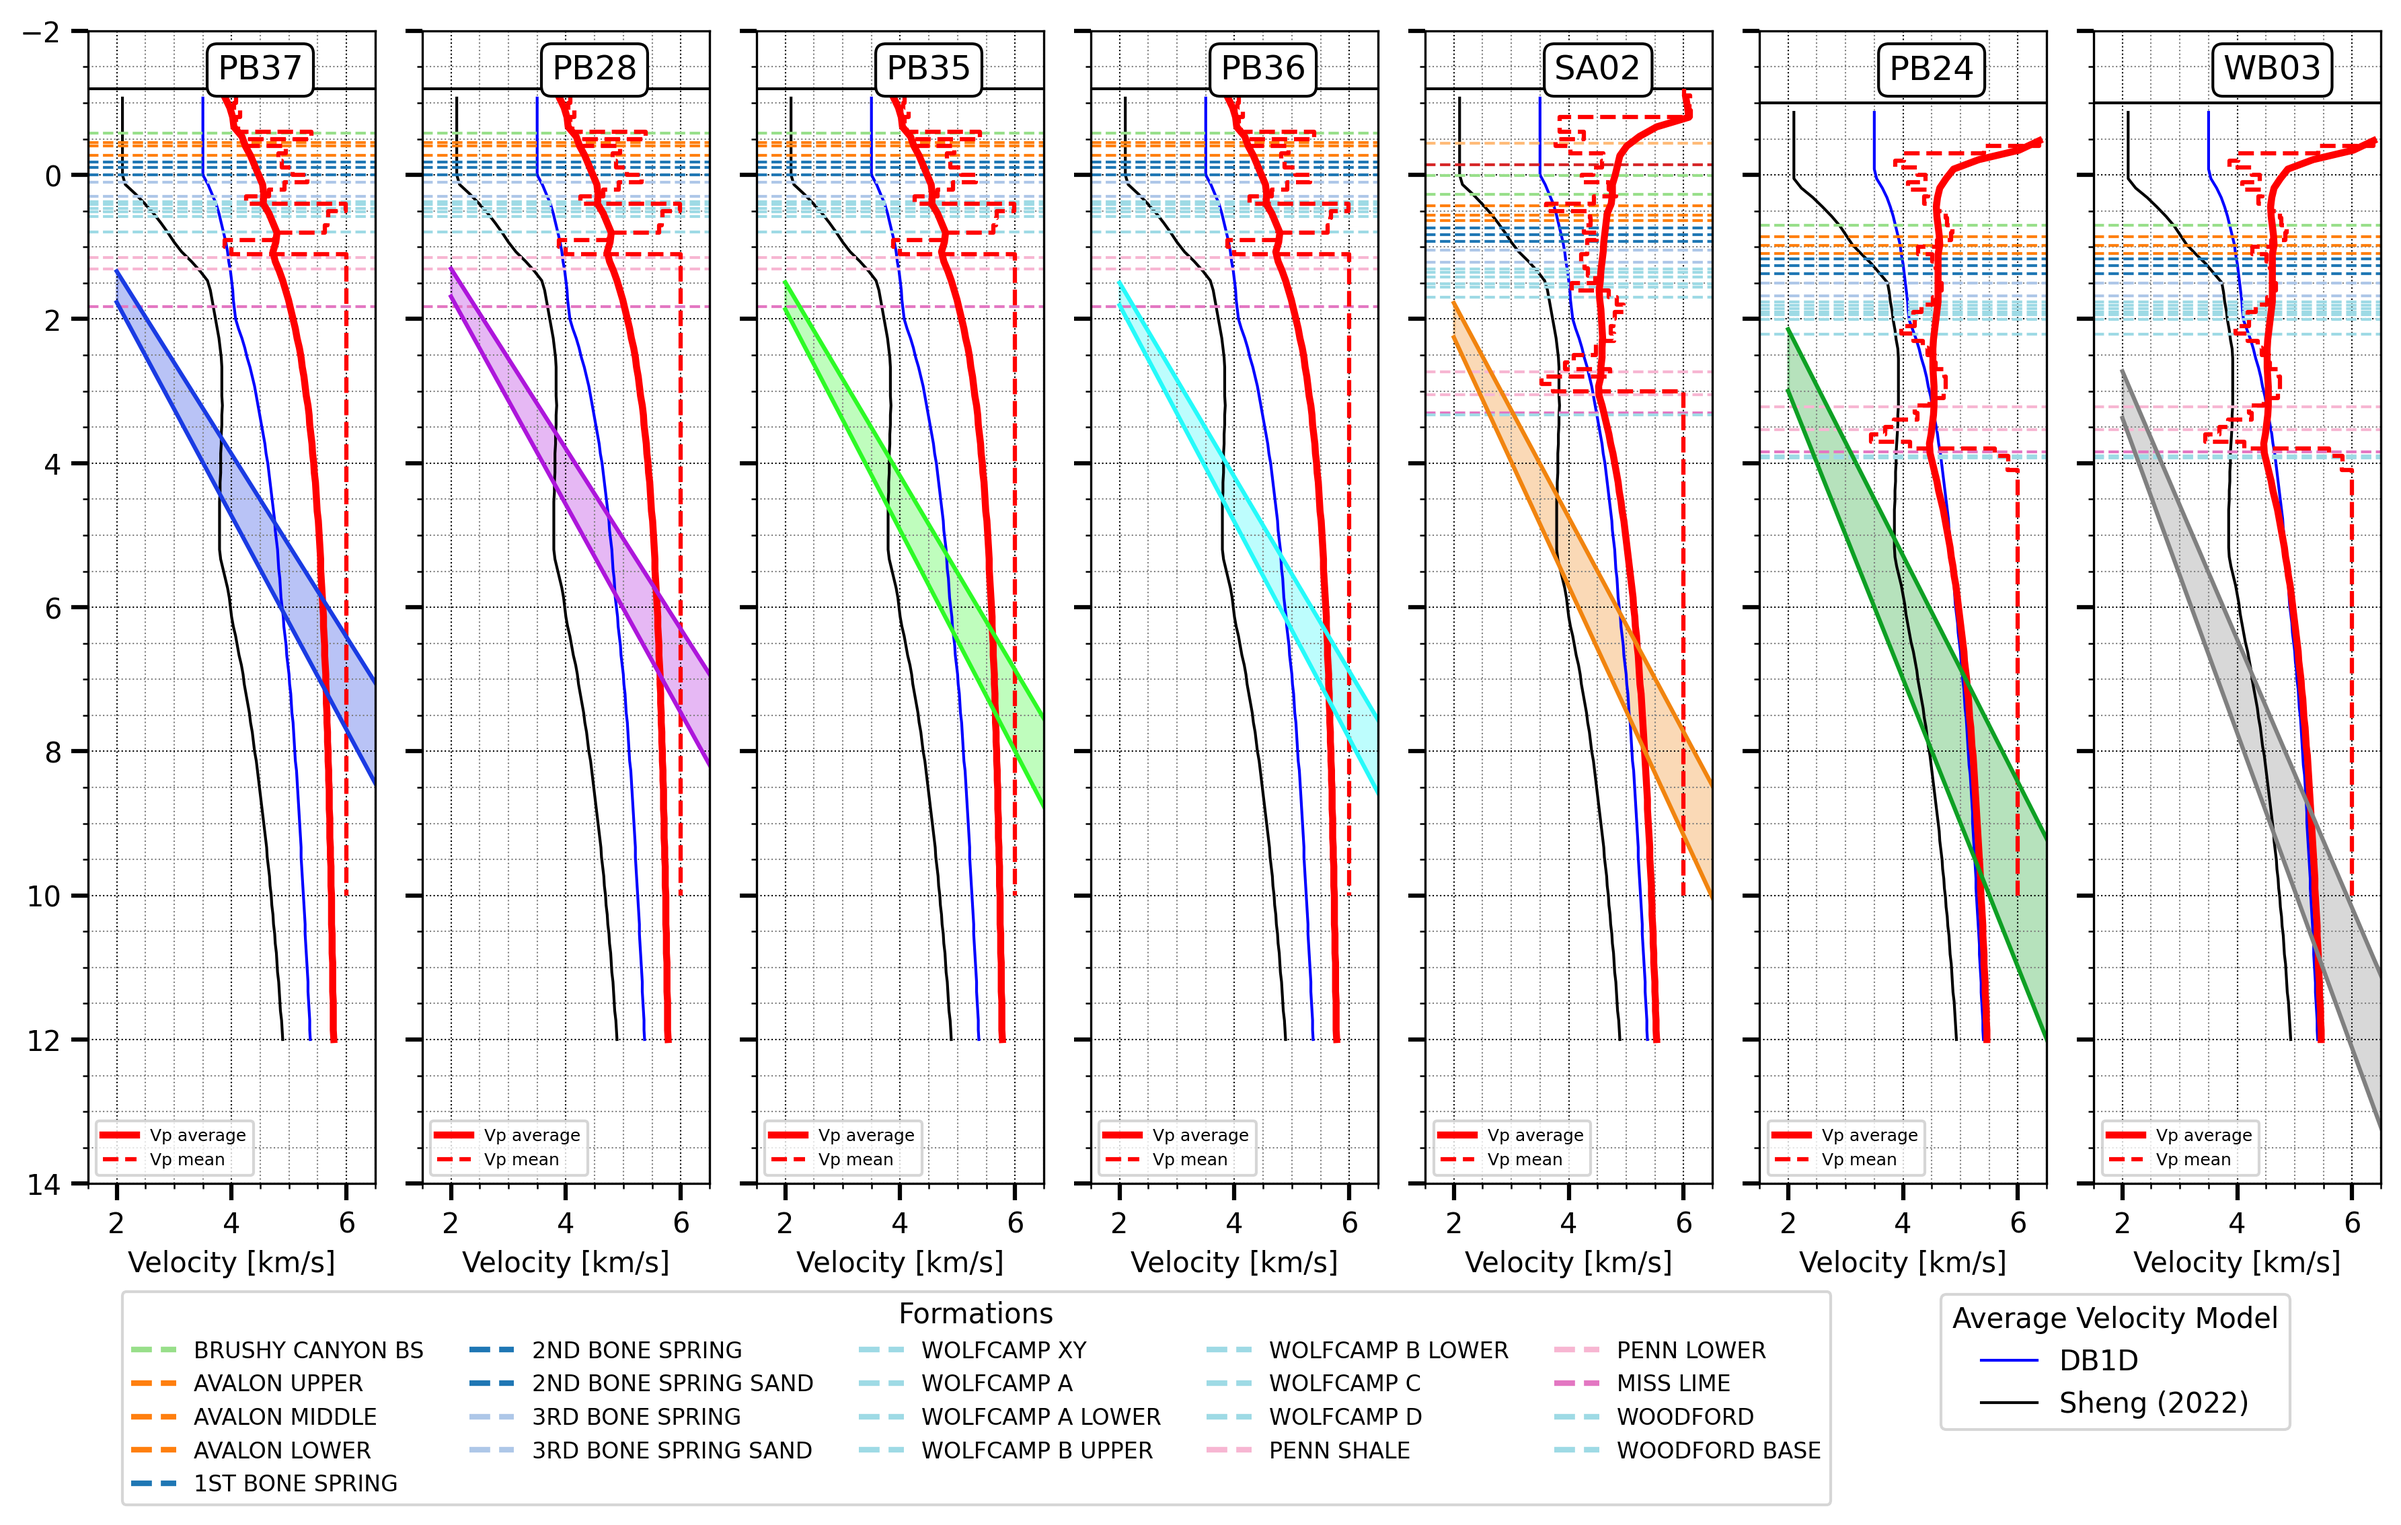
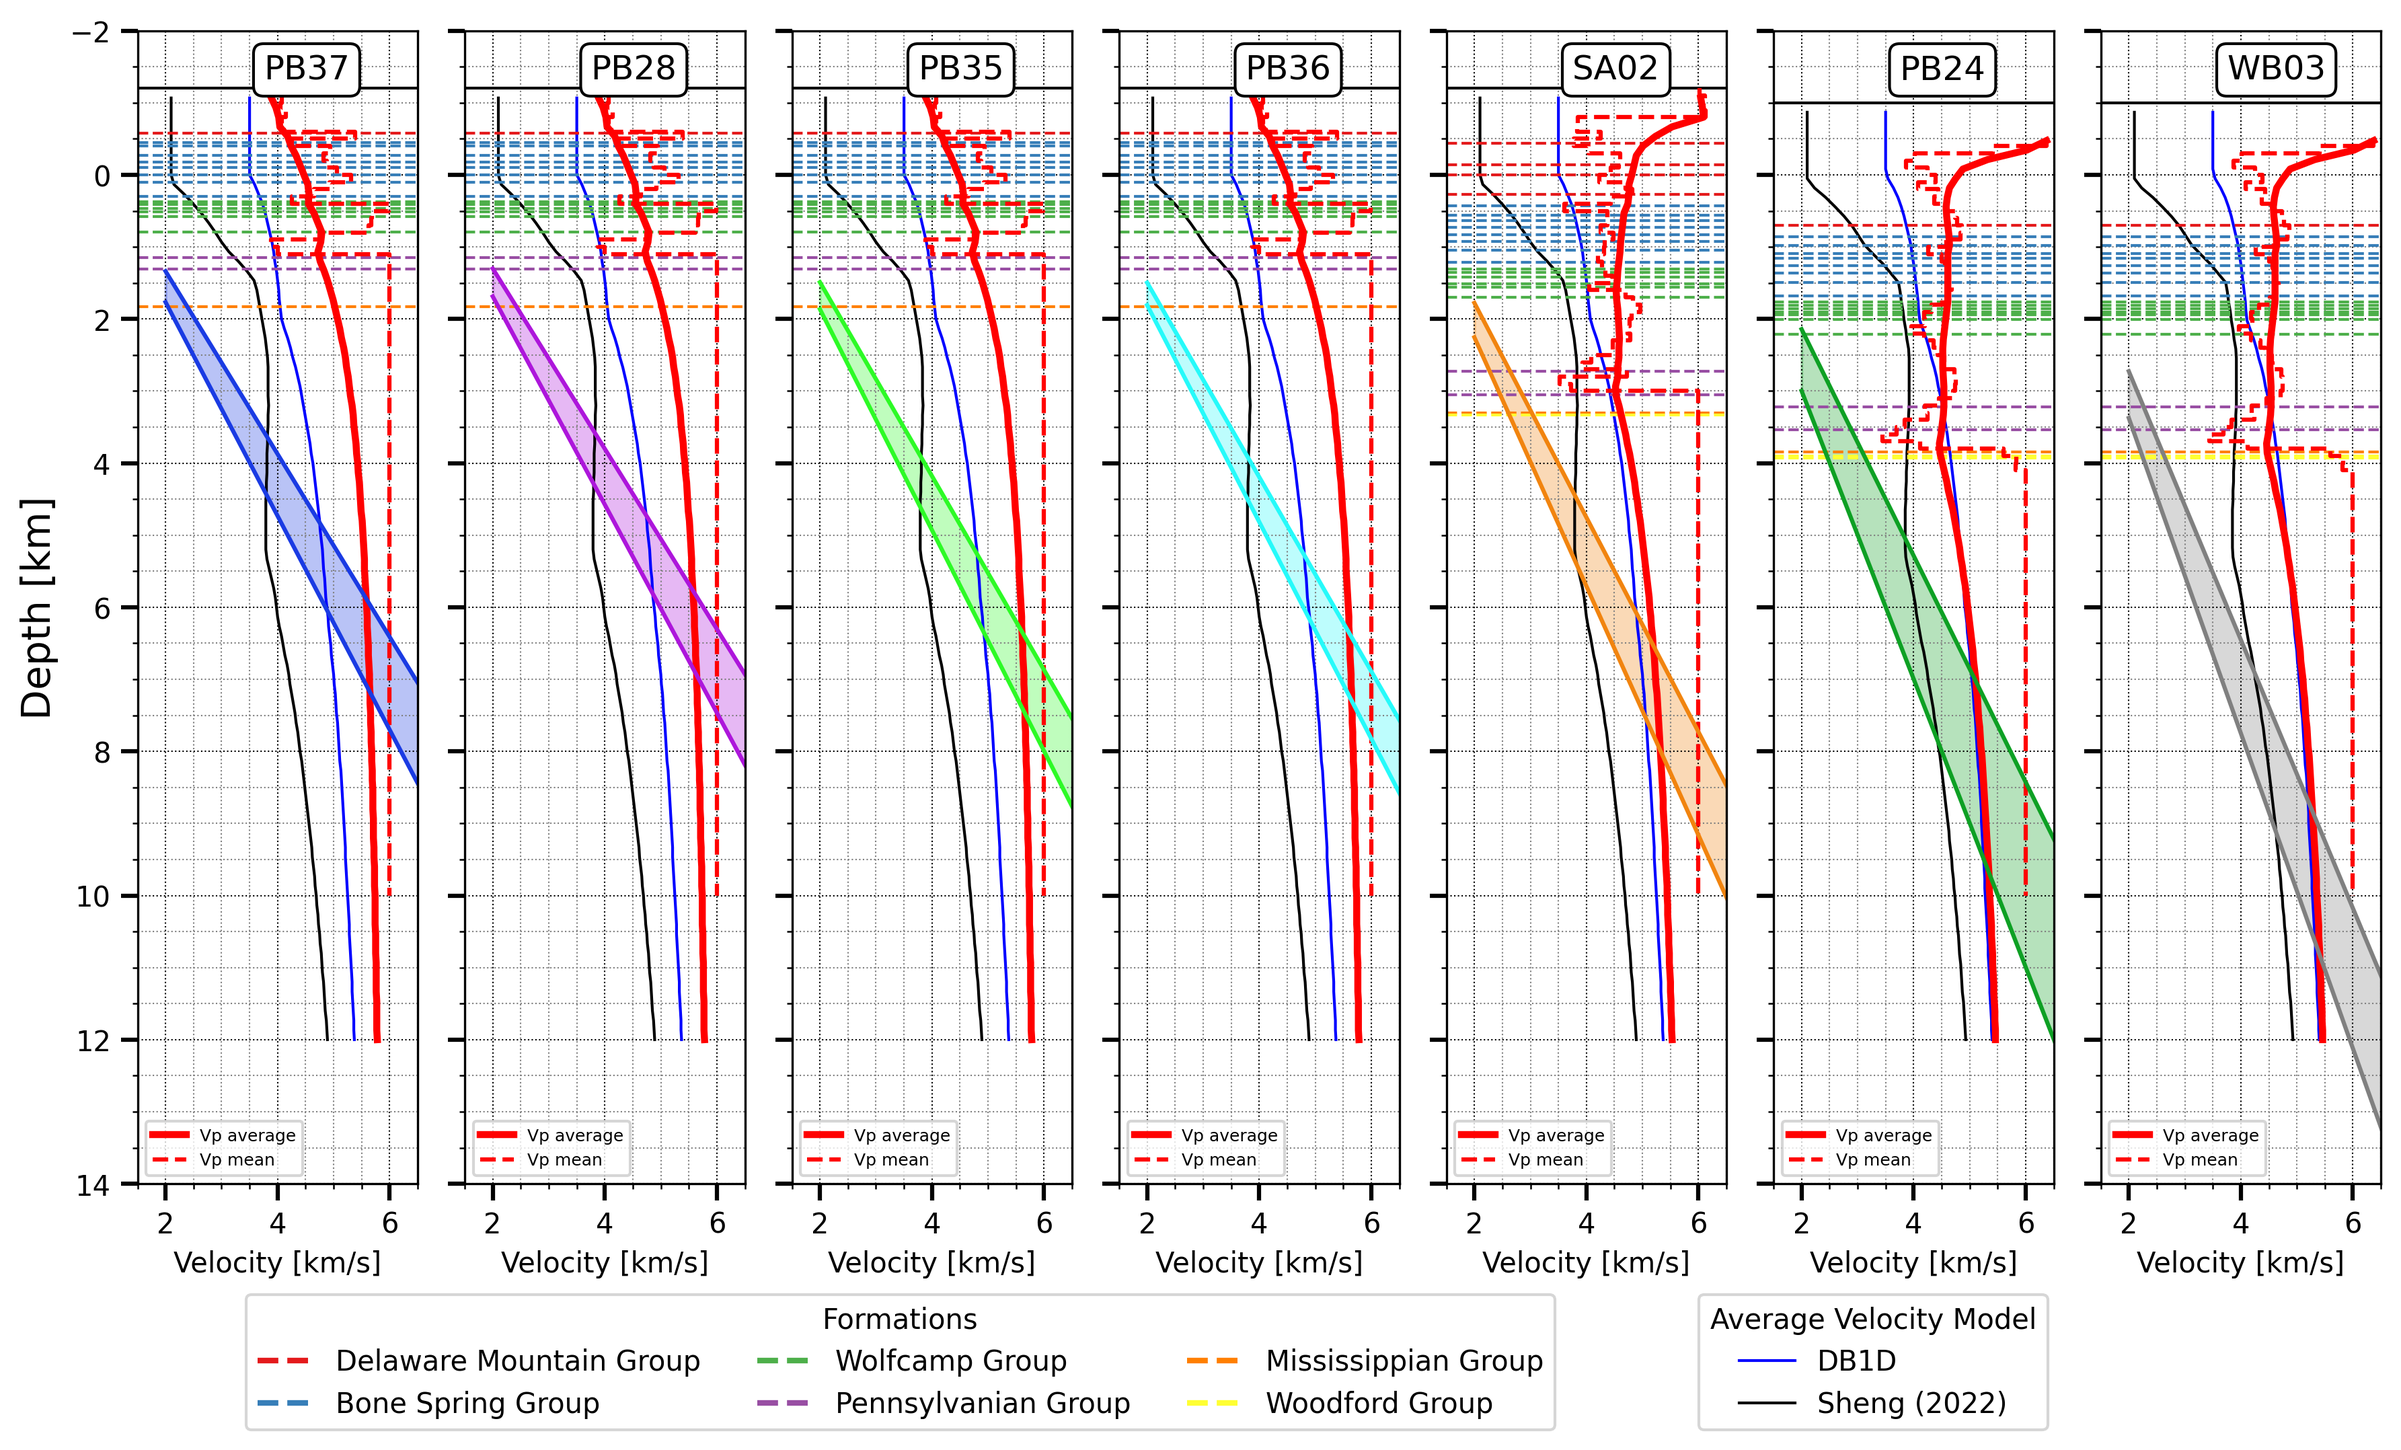
depth lines

Changed region(s): [[0.0, 0.0, 0.995, 0.9944]]

diff --git a/10102024/delaware/core/enverus.py b/10102024/delaware/core/enverus.py
@@ -1045,6 +1045,7 @@ def z_fig(df,formations,
              formation_well_name,
              sp_25, sp_75,vp_vs,
              ax,
+             stratigraphy=None,
              z_color="gray",
              depth="Depth[km]",
     vel="Vp[km/s]",
@@ -1183,28 +1184,41 @@ def z_fig(df,formations,
     global_legend_handles = {}
     # Plot formation boundaries for the well.
     if formations is not None:
-        
-        global_formation_colors = assign_global_colors(formations["FormationName"].drop_duplicates())
-        if formations_key_order is None:
-            formations_key_order = "FormationName"
-        formations_order = formations.copy().drop_duplicates("FormationName")
-        formations_order = formations_order.sort_values(formations_key_order, ignore_index=True)
-        formations_order = formations_order["FormationName"].tolist()
-        
-        single_formation = formations[formations["API_UWI_12"] == formation_well_name[:-3]]
-        single_formation = single_formation.sort_values("TVD_Top", ignore_index=True)
-        
-        for _, f in single_formation.iterrows():
-            depth_f = (f["TVD_Top"] * 0.0003048) + elevation_km
-            formation_name = f["FormationName"]
-            color = global_formation_colors.get(formation_name, "gray")
-            ax.axhline(y=depth_f, color=color, linestyle=form_linestyle, linewidth=1)
+        if stratigraphy is None:
+            print("No stratigraphy attribute")
+        else:
+            # global_formation_colors = assign_global_colors(formations["FormationName"].drop_duplicates())
+            if formations_key_order is None:
+                formations_key_order = "FormationName"
+            formations_order = formations.copy().drop_duplicates("FormationName")
+            formations_order = formations_order.sort_values(formations_key_order, ignore_index=True)
+            formations_order = formations_order["FormationName"].tolist()
             
-            # Add the formation to the legend if not already present.
-            global_legend_handles[formation_name] = plt.Line2D([0], [0], color=color, lw=2,
-                                                               linestyle=form_linestyle, 
-                                                               label=formation_name)
-     
+            single_formation = formations[formations["API_UWI_12"] == formation_well_name[:-3]]
+            single_formation = single_formation.sort_values("TVD_Top", ignore_index=True)
+            
+            for _, f in single_formation.iterrows():
+                depth_f = (f["TVD_Top"] * 0.0003048) + elevation_km
+                formation_name = f["FormationName"]
+                
+                match = next((word for word in list(stratigraphy.keys()) if \
+                                word.lower() in formation_name.lower() or\
+                                formation_name.lower() in word.lower()), None)
+                
+                if match is None:
+                    print(f"No formation {formation_name} in your stratigraphy")
+                    continue
+                
+                # color = global_formation_colors.get(formation_name, "gray")
+                global_name = stratigraphy[match]["data"]
+                color = stratigraphy[match]["color"]
+                ax.axhline(y=depth_f, color=color, linestyle=form_linestyle, linewidth=1)
+                
+                # Add the formation to the legend if not already present.
+                global_legend_handles[global_name] = plt.Line2D([0], [0], color=color, lw=2,
+                                                                linestyle=form_linestyle, 
+                                                                label=global_name)
+        
      
     if mean:
         # Define common depth bins (from min to max depth across all wells)

diff --git a/02032024/project/depth/plot_z_lines.py b/02032024/project/depth/plot_z_lines.py
@@ -1,6 +1,7 @@
 import pandas as pd
 import os
 import string
+from matplotlib import colors as mcolors
 import matplotlib.pyplot as plt
 from delaware.core.enverus import z_fig
 
@@ -100,12 +101,72 @@ order = order["station"].to_list()
 #          (formations["API_UWI_12"] == form_r3[:-3] )
 # formations = formations[cond]
 
+##################################stratigraphy
+strata = {
+    "Delaware Mountain Group": [
+        "Brushy Canyon",
+        "Cherry Canyon",
+        "Bell Canyon"
+    ],
+    "Bone Spring Group": [
+        "Avalon Upper",
+        "Avalon Middle",
+        "Avalon Lower",
+        "1st Bone Spring",
+        "2nd Bone Spring",
+        "2nd Bone Spring Sand",
+        "3rd Bone Spring",
+        "3rd Bone Spring Sand"
+    ],
+    "Wolfcamp Group": [
+        "Wolfcamp A",
+        "Wolfcamp A Lower",
+        "Wolfcamp B Upper",
+        "Wolfcamp B Lower",
+        "Wolfcamp C",
+        "Wolfcamp D",
+        "Wolfcamp XY",
+        "Wolfcamp Base"
+    ],
+    "Pennsylvanian Group": [
+        "Penn Shale",
+        "Penn Lower"
+    ],
+    "Mississippian Group": [
+        "Miss Lime"
+    ],
+    "Woodford Group": [
+        "Woodford",
+        "Woodford Base"
+    ]
+}
+# Choose a better spaced colormap: Set1 + Dark2 (as fallback)
+set1 = plt.cm.get_cmap('Set1').colors  # 9 very distinct colors
+dark2 = plt.cm.get_cmap('Dark2').colors  # 8 darker distinct colors
+combined_colors = list(set1) + list(dark2)
+color_list = [mcolors.to_hex(c) for c in combined_colors]
+
+# New structure
+formation_dict = {}
+
+for i, (group, form) in enumerate(strata.items()):
+    color = color_list[i % len(color_list)]
+    for formation in form:
+        formation_lowercase = formation.lower()
+        formation_dict[formation_lowercase] = {
+            "data": group,
+            "color": color
+        }
+stratigraphy = formation_dict
+
+#####################################333
+
 
 stats_by_station = picks.groupby('station')['ts-tp'].describe()
 fig, axes = plt.subplots(1, len(stats_by_station), 
                         sharey=True, 
                         figsize=(12, 8))
-        
+axes[0].set_ylabel("Depth [km]", fontsize=14)
 # rows, cols = 1,axes.shape[0]  # Get the number of rows and columns
 # n = 0
 # for col in range(cols):  # Iterate over columns first
@@ -144,6 +205,7 @@ for i,station in enumerate(order):
                                  formations,
                                  form,
                                  sp_t1, sp_t2,vpvs,
+                stratigraphy=stratigraphy,                 
                 ax=axes[i],
                 z_color=custom_palette[station]["color"],
                 ylims=(-2,14),
@@ -204,11 +266,16 @@ for i,station in enumerate(order):
 
 # # Sort and add legend for formations.
 global_legend_handles = {k: v for d in [lg1_1] for k, v in d.items()}
-fig.legend(handles=list(global_legend_handles.values()), loc="upper left", title="Formations", 
-           fontsize=8, ncol=5, bbox_to_anchor=(0.05, 0.2))
+# fig.legend(handles=list(global_legend_handles.values()), loc="upper left", title="Formations", 
+#            fontsize=8, ncol=5, bbox_to_anchor=(0.05, 0.2))
+global_legend_handles = {k: global_legend_handles[k] for k in strata if k in global_legend_handles}
+fig.legend(handles=list(global_legend_handles.values()), 
+           loc="upper left",title="Formations",
+           fontsize=10, ncol=3, bbox_to_anchor=(0.1, 0.2))
+
 # # Add velocity model legend to the figure.
 fig.legend(handles=lg2_1, loc="upper left", title="Average Velocity Model",
-           fontsize=10, ncol=1, bbox_to_anchor=(0.8, 0.2))
+           fontsize=10, ncol=1, bbox_to_anchor=(0.7, 0.2))
 
 # Finalize layout and save or display the plot.
 fig.tight_layout()
